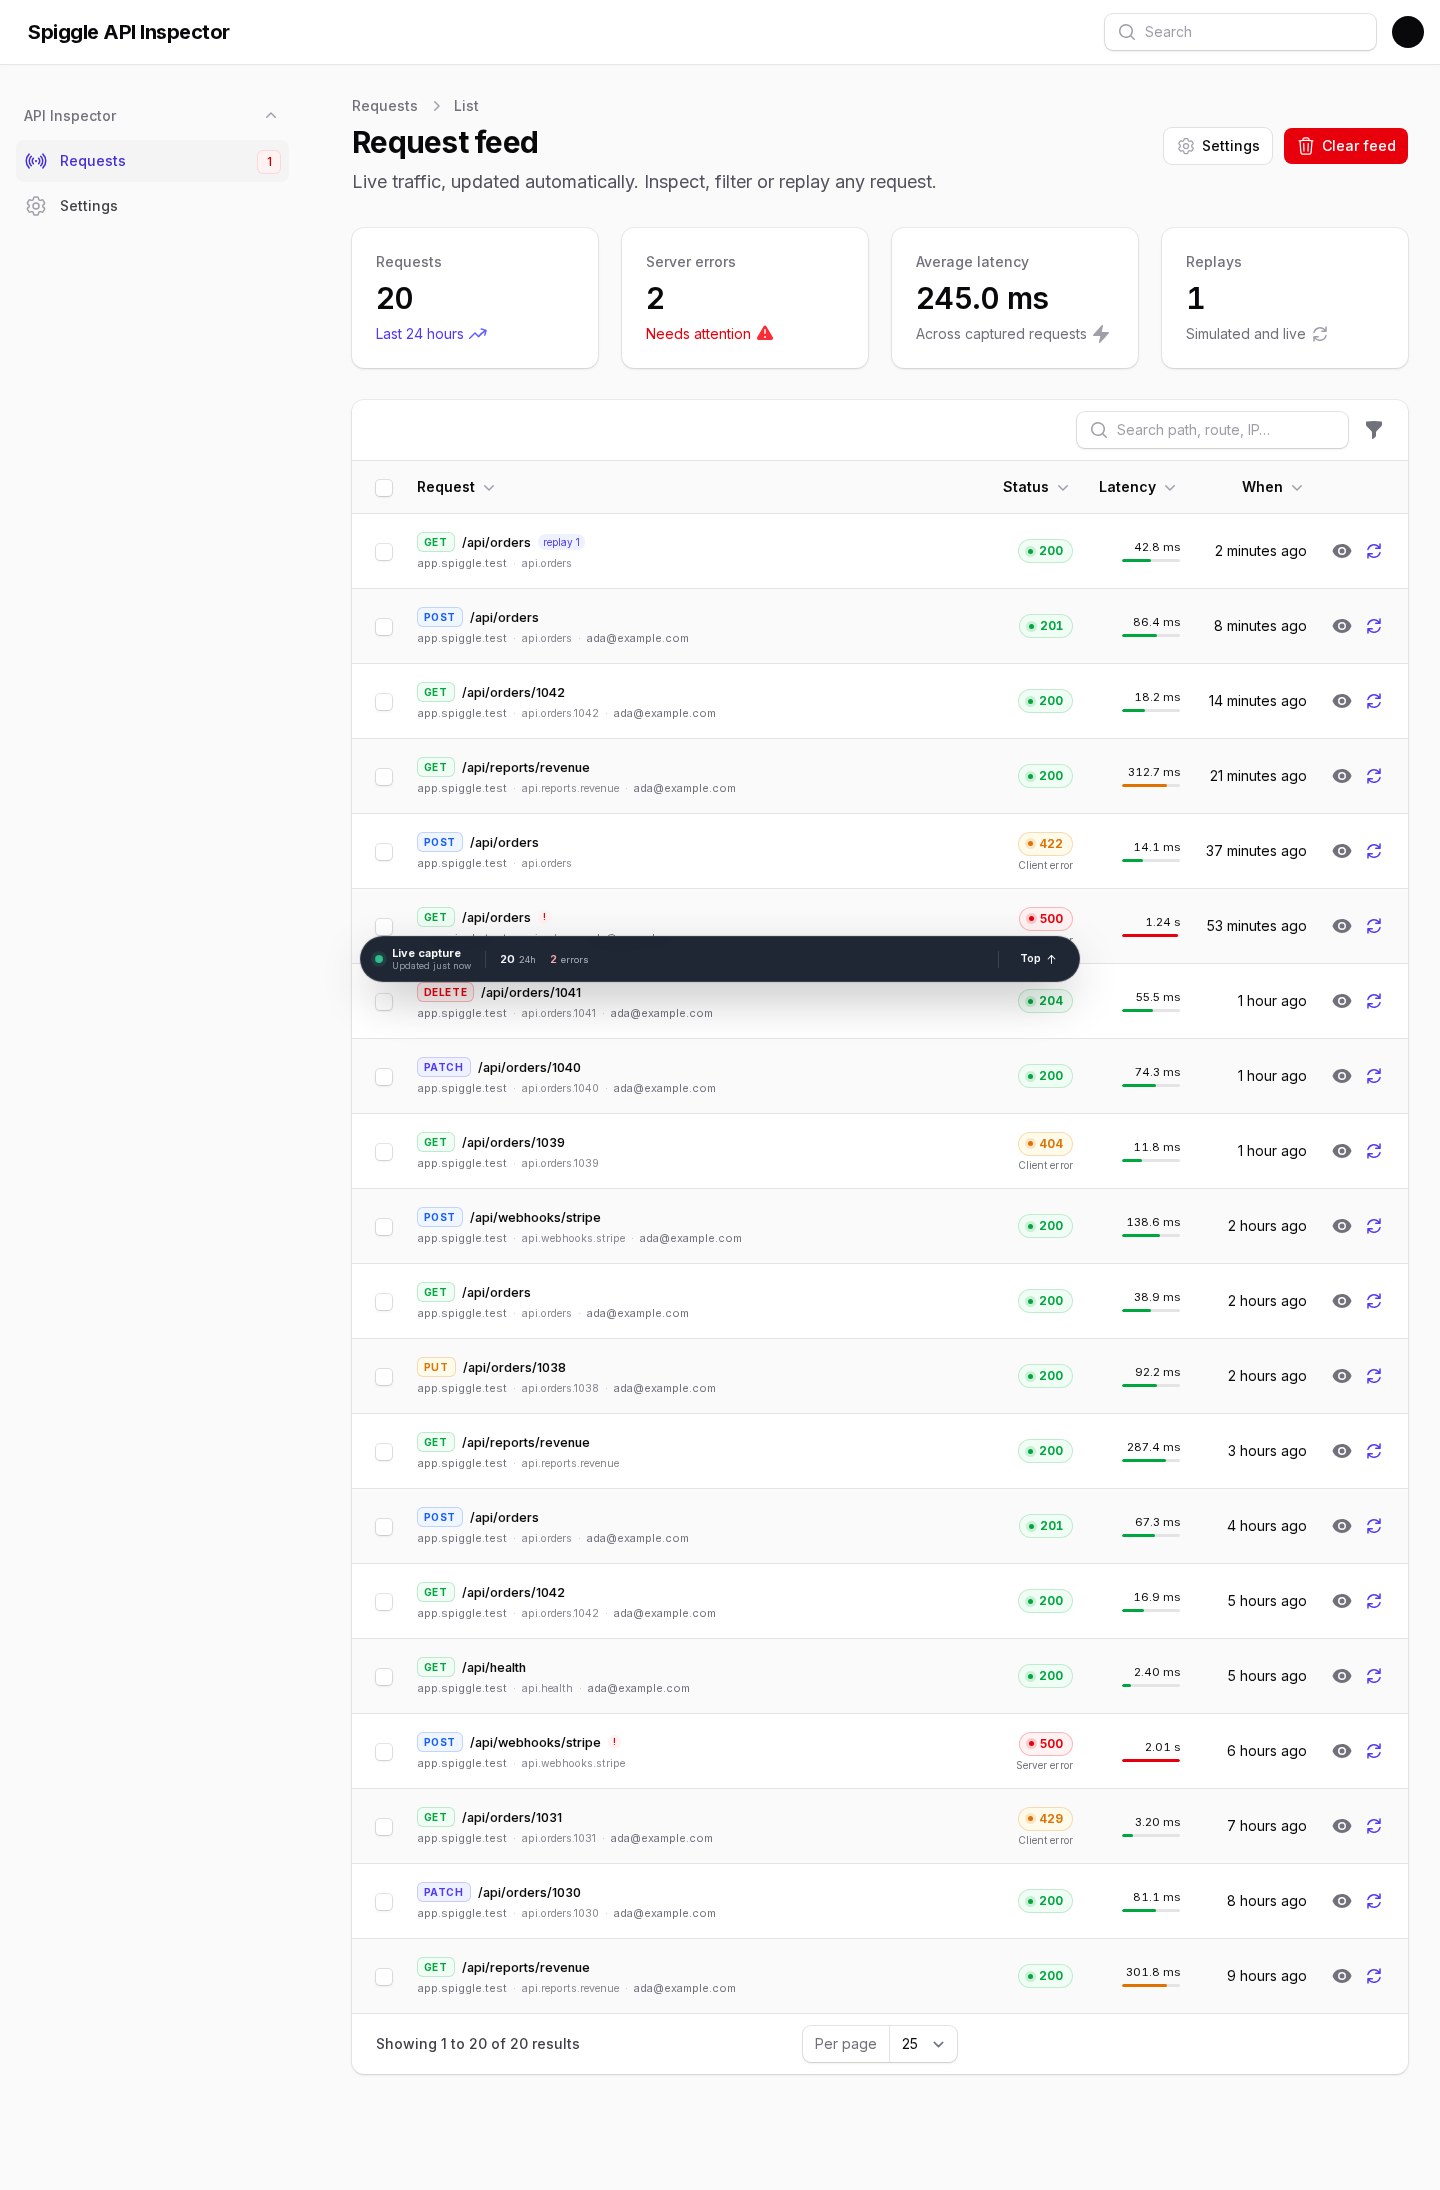
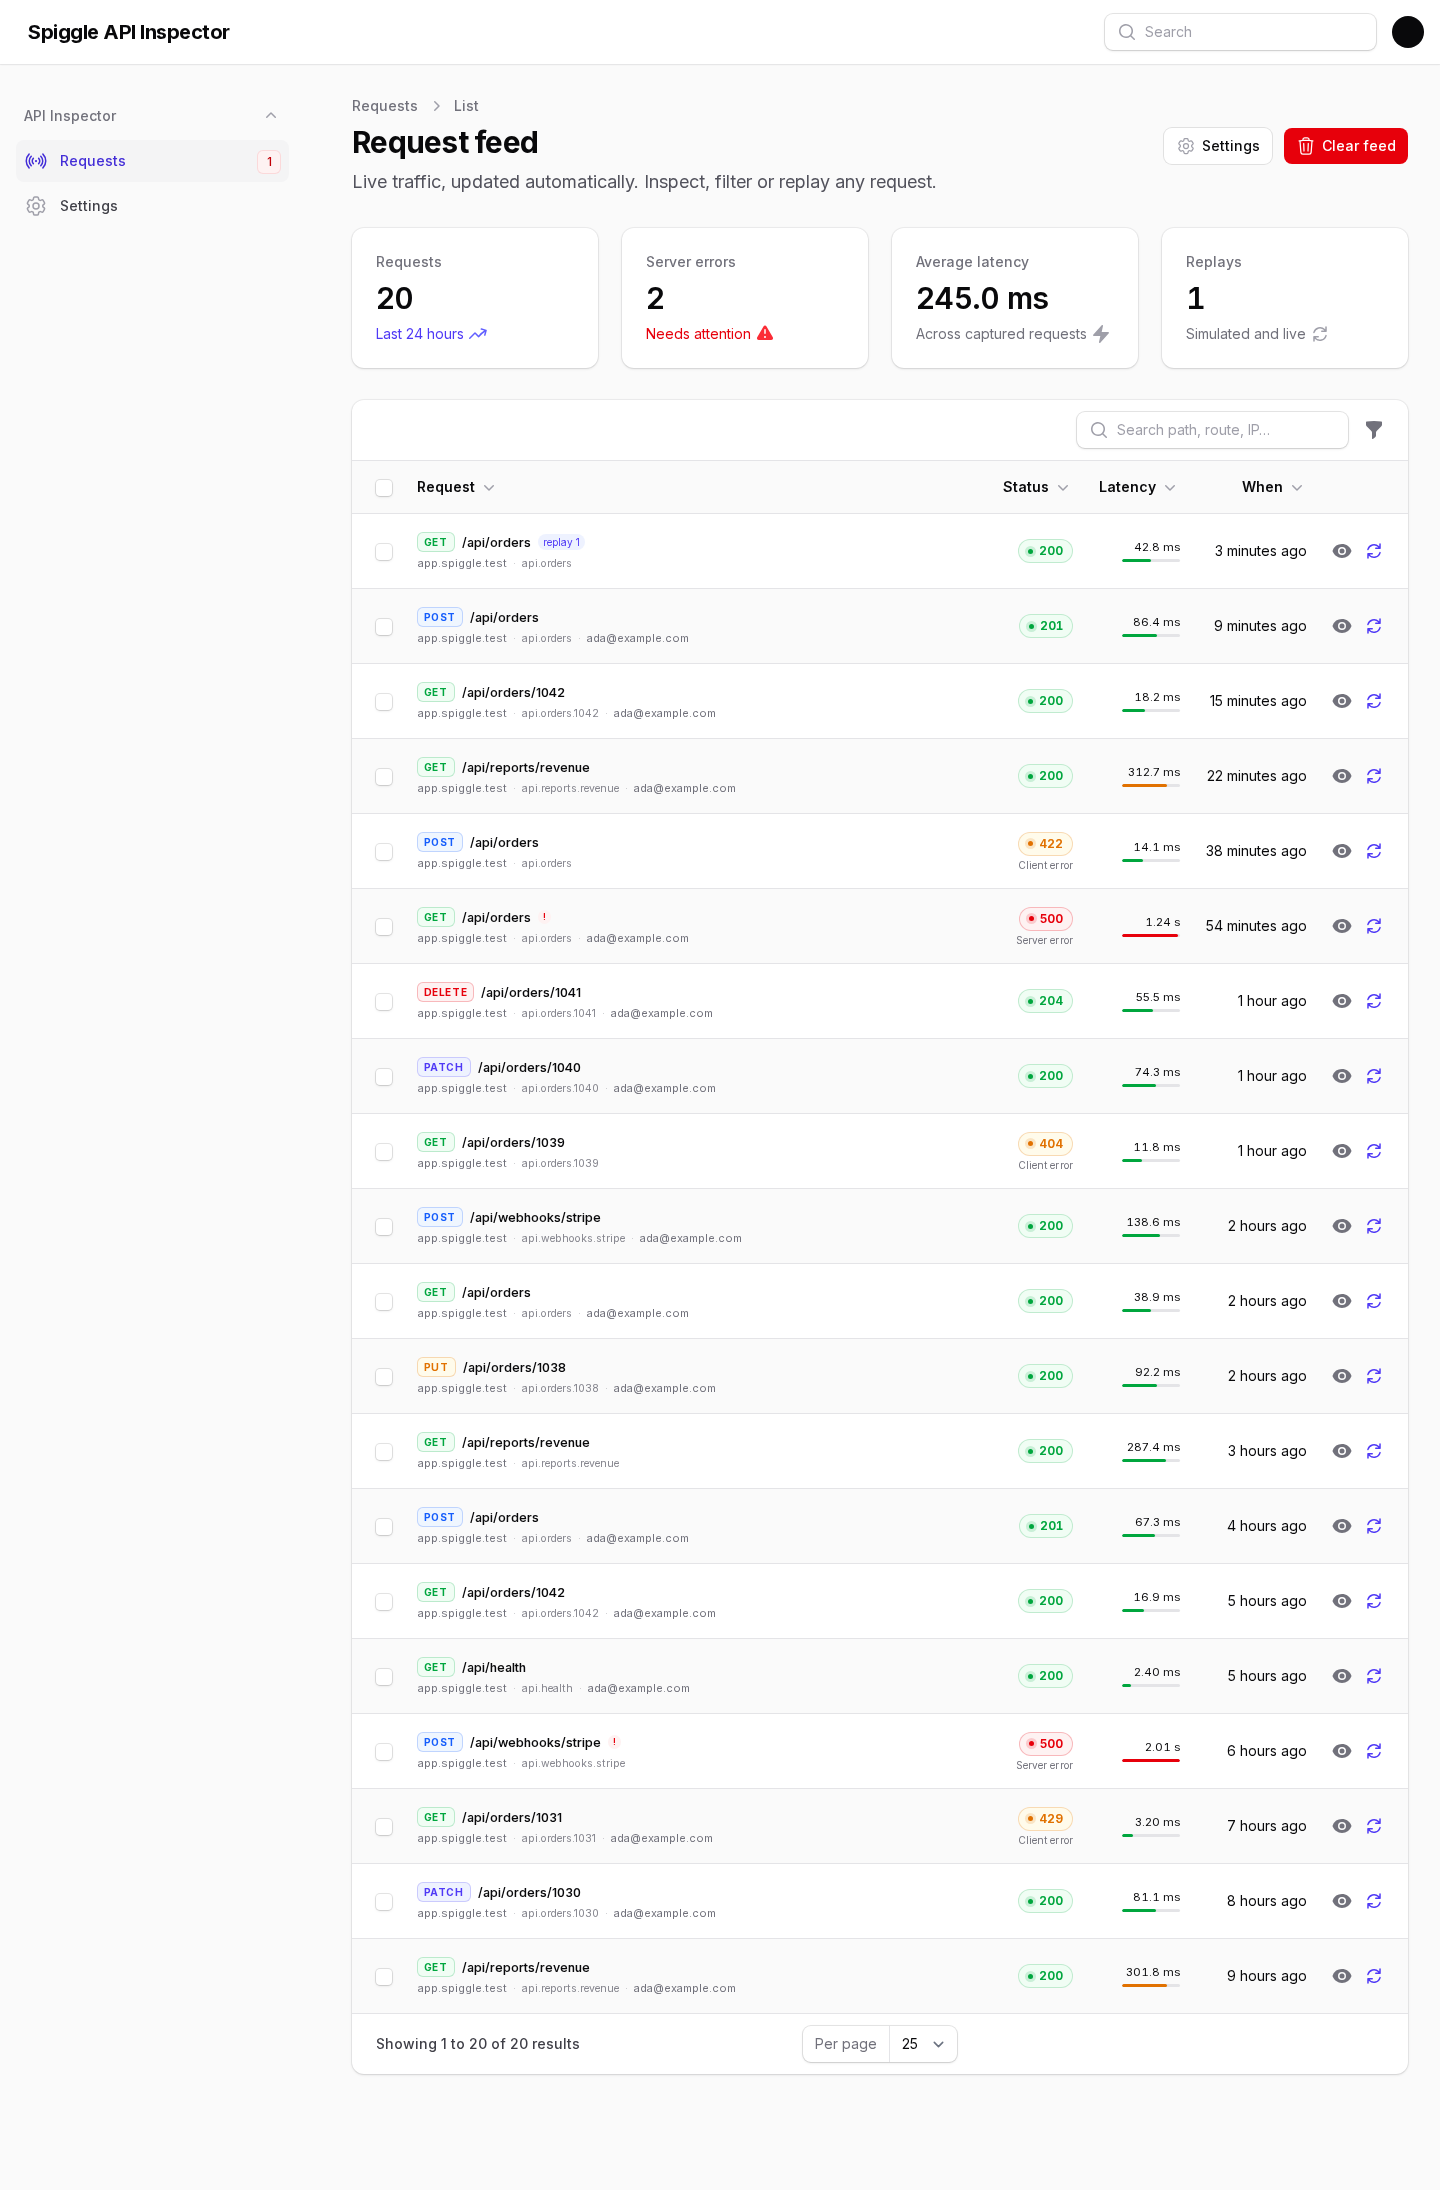
Show live dock screenshot and clean feed capture

Changed region(s): [[0.25, 0.4037, 0.75, 0.4658]]

diff --git a/filament-api-inspector/README.md b/filament-api-inspector/README.md
@@ -151,6 +151,8 @@ The replay result shows status, duration, warnings, the execution plan, whether 
 
 The live bar only appears on request feed/detail pages. Settings stays focused on configuration.
 
+![Live status dock](art/live-dock.png)
+
 ## Capture rules
 
 ```php
